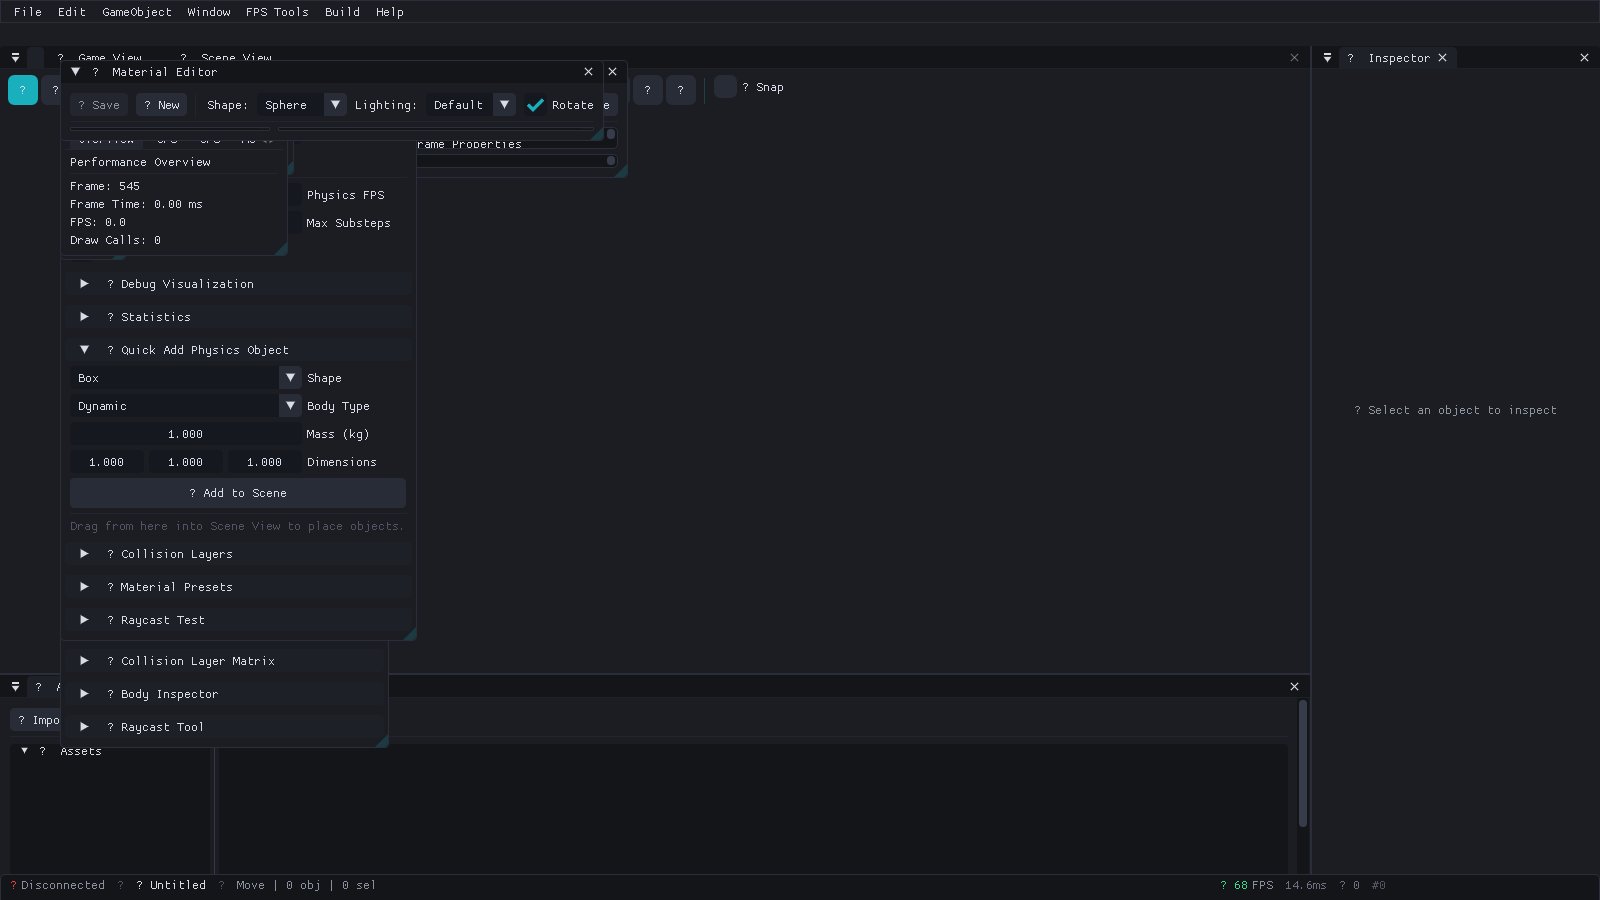
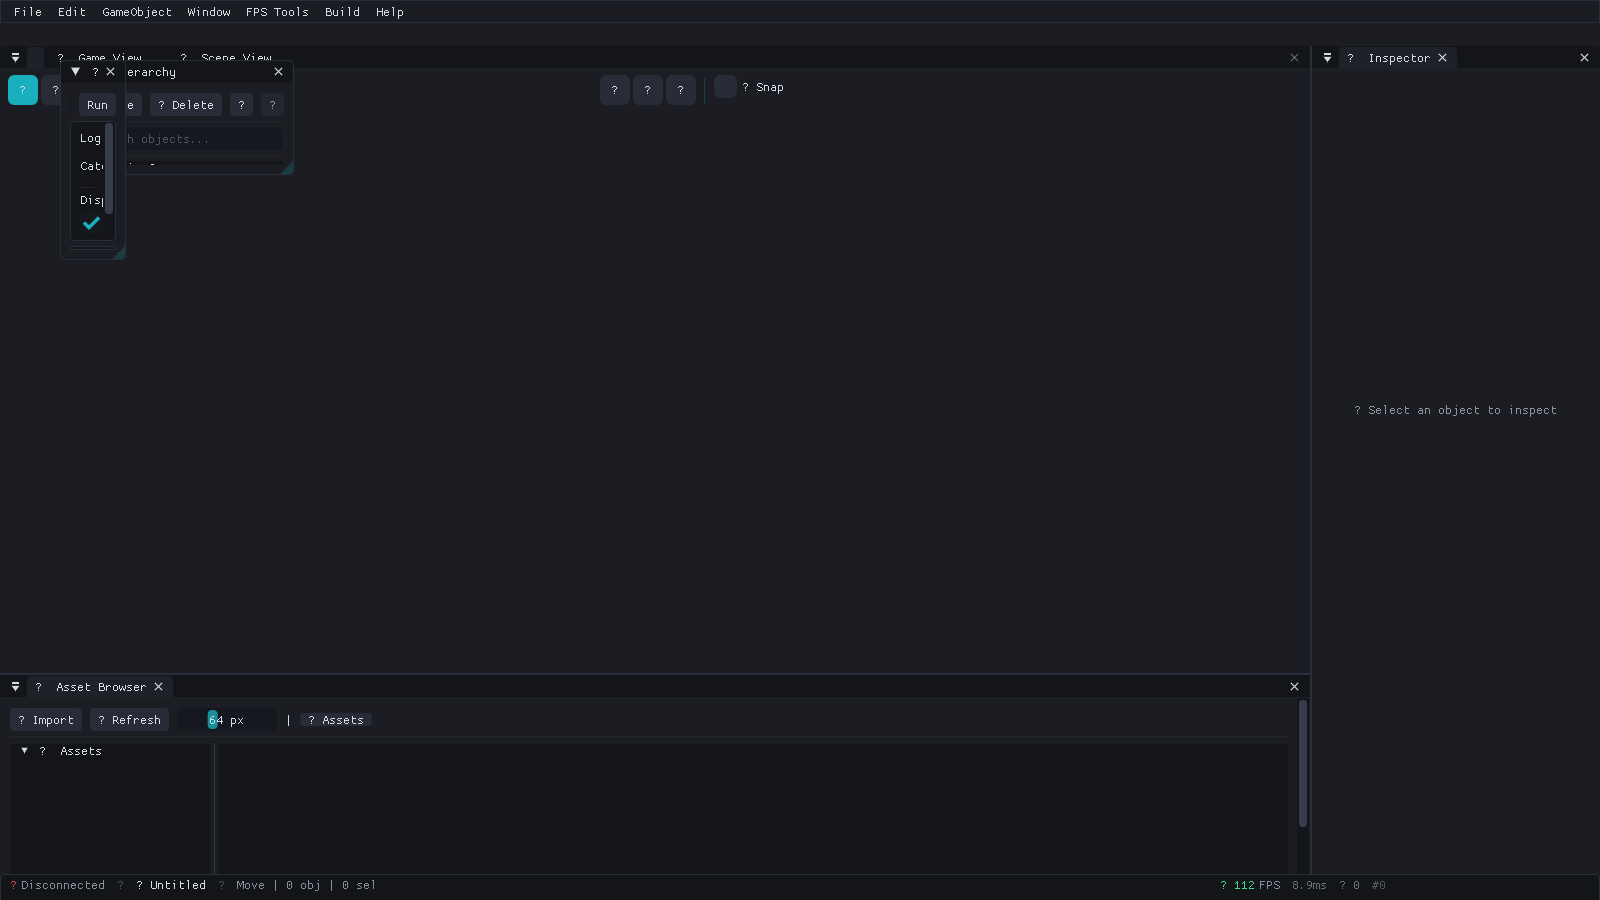
Add welcome screen, clean default layout, and 7 editor screenshots
Editor UX improvements:
- Default layout now shows only 6 essential panels (Scene View, Hierarchy,
  Inspector, Console, Asset Browser, Game View) instead of all 57+ stacked
  on top of each other
- Welcome screen modal on first launch explains core panels and offers
  "Open All Panels" or "Keep Minimal Layout" quick actions
- Welcome screen auto-skipped in --test-mode for automated testing

New screenshots captured via Xvfb + Mesa llvmpipe:
- editor-overview.png: Clean default layout (no panel overlap)
- editor-welcome.png: First-launch welcome screen
- editor-window-menu.png: Window menu showing all available panels
- editor-file-menu.png: File menu (New/Save/Import/Build/Exit)
- editor-gameobject-menu.png: GameObject creation (3D, Light, Camera, etc.)
- editor-physics-panel.png: Physics 3D panel with gravity/settings
- editor-fpstools-menu.png: FPS Tools menu

Screenshots inserted into README (with collapsible gallery), wiki/Home,
wiki/SparkEditor (7 images), and wiki/Getting-Started.

https://claude.ai/code/session_01Sz326cjw3rrzmRm45WpGr9

diff --git a/SparkEditor/Source/Core/EditorUI.cpp b/SparkEditor/Source/Core/EditorUI.cpp
@@ -551,6 +551,7 @@ namespace SparkEditor
         RenderStatusBar();
         RenderNotifications();
         RenderModalDialogs();
+        RenderWelcomeScreen();
 
         // Render project browser modal (on top of everything)
         SPARK_WARN_IF(Spark::LogCategory::Editor, m_projectBrowserPanel == nullptr,
@@ -912,6 +913,66 @@ namespace SparkEditor
 
                 ImGui::EndPopup();
             }
+        }
+    }
+
+    void EditorUI::RenderWelcomeScreen()
+    {
+        if (!m_showWelcomeScreen)
+            return;
+
+        // Skip welcome screen in test mode (automated testing)
+        if (m_config && m_config->testMode)
+        {
+            m_showWelcomeScreen = false;
+            return;
+        }
+
+        ImGui::OpenPopup("Welcome to SparkEngine");
+
+        ImVec2 center = ImGui::GetMainViewport()->GetCenter();
+        ImGui::SetNextWindowPos(center, ImGuiCond_Appearing, ImVec2(0.5f, 0.5f));
+        ImGui::SetNextWindowSize(ImVec2(560, 420), ImGuiCond_Appearing);
+
+        if (ImGui::BeginPopupModal("Welcome to SparkEngine", &m_showWelcomeScreen,
+                                   ImGuiWindowFlags_NoResize | ImGuiWindowFlags_NoMove))
+        {
+            ImGui::TextWrapped("Welcome! SparkEngine is a C++23 open-source 3D game engine.");
+            ImGui::Spacing();
+            ImGui::Separator();
+            ImGui::Spacing();
+
+            ImGui::Text("Getting Started");
+            ImGui::BulletText("Scene View — navigate the 3D viewport (WASD + mouse)");
+            ImGui::BulletText("Hierarchy — view and select entities in the scene");
+            ImGui::BulletText("Inspector — edit properties of the selected entity");
+            ImGui::BulletText("Asset Browser — browse and import project assets");
+            ImGui::BulletText("Console — view logs and run debug commands");
+
+            ImGui::Spacing();
+            ImGui::Separator();
+            ImGui::Spacing();
+
+            ImGui::Text("Quick Actions");
+            if (ImGui::Button("Open All Panels"))
+            {
+                for (auto& [name, panel] : m_panels)
+                    panel->SetVisible(true);
+                m_showWelcomeScreen = false;
+                ImGui::CloseCurrentPopup();
+            }
+            ImGui::SameLine();
+            if (ImGui::Button("Keep Minimal Layout"))
+            {
+                m_showWelcomeScreen = false;
+                ImGui::CloseCurrentPopup();
+            }
+
+            ImGui::Spacing();
+            ImGui::TextDisabled("Tip: Open more panels from the Window menu at any time.");
+            ImGui::TextDisabled("Tip: Use Window > Reset Layout to restore the default.");
+
+            ImGui::EndPopup();
         }
     }
 

diff --git a/SparkEditor/Source/Core/EditorPanelFactory.cpp b/SparkEditor/Source/Core/EditorPanelFactory.cpp
@@ -221,28 +221,24 @@ namespace SparkEditor
 
     void EditorUI::SetDefaultPanelVisibility()
     {
-        const char* hiddenPanels[] = {
-            "WeaponEditor",       "FPSTools",           "DebugVisualizer",
-            "SceneStats",         "ObjectPlacement",    "BuildCook",
-            "UndoHistory",        "PrefabEditor",       "Search",
-            "DedicatedServer",    "TerrainEditor",      "PostProcessing",
-            "DialogueEditor",     "AIEditor",           "AIDebug",
-            "SplineEditor",       "ParticleEditor",     "EventMonitor",
-            "SaveSystem",         "Localization",       "WeatherFog",
-            "CinematicSequencer", "ProjectSettings",    "AudioMixer",
-            "ScriptEditor",       "DestructionEditor",  "Replay",
-            "VRConfig",           "Streaming",          "Modding",
-            "CoroutineDebug",     "GameModuleSelector", "Collaboration",
-            "TimeOfDay",          "AbilityEditor",      "TriggerEditor",
-            "ConditionEditor",    "DecalEditor",        "EventResponses",
-            "VisualScript",       "Workflows",          "Prototyping",
-            "UIDesigner",         "ScriptDebugger",
+        // On first launch, only show the essential panels that form a clean,
+        // non-overlapping workspace. All other panels can be enabled from the
+        // Window menu. This prevents the overwhelming "everything stacked on
+        // everything" experience for new users.
+        const char* visibleByDefault[] = {
+            "SceneView", "Hierarchy", "Inspector", "Console", "AssetBrowser", "GameView",
         };
 
-        for (const char* name : hiddenPanels)
+        // Start with everything hidden, then enable the defaults
+        for (auto& [name, panel] : m_panels)
+        {
+            panel->SetVisible(false);
+        }
+
+        for (const char* name : visibleByDefault)
         {
             if (m_panels.count(name))
-                m_panels[name]->SetVisible(false);
+                m_panels[name]->SetVisible(true);
         }
     }
 

diff --git a/SparkEditor/Source/Core/EditorUI.h b/SparkEditor/Source/Core/EditorUI.h
@@ -178,6 +178,7 @@ namespace SparkEditor
         std::string m_currentTheme = "Spark Professional";
         bool m_showDemoWindow = false;
         bool m_firstFrame = true;
+        bool m_showWelcomeScreen = true;
         uint64_t m_frameNumber = 0;
 
         // Statistics tracking
@@ -298,6 +299,7 @@ namespace SparkEditor
         void RenderNotifications();
         void RenderPanels();
         void RenderModalDialogs();
+        void RenderWelcomeScreen();
         void SetupDefaultDockLayout(ImGuiID dockspaceId);
         void UpdateStats(float deltaTime);
         void CreatePanels();

diff --git a/wiki/SparkEditor.md b/wiki/SparkEditor.md
@@ -2,9 +2,37 @@
 
 The SparkEditor is an ImGui-based visual editor for creating and editing game content. It provides a dockable workspace with multiple panels for [scene editing](Scene-Management), material authoring, [animation](Animation), and debugging.
 
-![SparkEditor running on Linux with software rendering](../docs/screenshots/editor-overview.png)
+![SparkEditor default layout](../docs/screenshots/editor-overview.png)
 
-*SparkEditor with the Spark Professional theme — showing Material Editor, Physics tools, Performance overlay, Scene View, Inspector, and Asset Browser panels.*
+*SparkEditor default layout — Hierarchy, Scene View, Inspector, Asset Browser, and Console panels with the Spark Professional dark theme.*
+
+### Welcome Screen
+
+On first launch, a welcome screen introduces the core panels and offers quick actions:
+
+![Welcome screen](../docs/screenshots/editor-welcome.png)
+
+### Window Menu — All Available Panels
+
+Additional panels can be enabled from the **Window** menu at any time:
+
+![Window menu showing all panels](../docs/screenshots/editor-window-menu.png)
+
+### File Menu
+
+![File menu](../docs/screenshots/editor-file-menu.png)
+
+### GameObject Menu
+
+Create entities with pre-configured components:
+
+![GameObject creation menu](../docs/screenshots/editor-gameobject-menu.png)
+
+### Physics Panel
+
+The Physics 3D panel provides world settings, gravity presets, and debug tools:
+
+![Physics 3D panel](../docs/screenshots/editor-physics-panel.png)
 
 **Source:** `SparkEditor/Source/`
 

diff --git a/README.md b/README.md
@@ -59,7 +59,28 @@
 
 ![SparkEditor — ImGui-based visual editor with 57+ dockable panels](docs/screenshots/editor-overview.png)
 
-*SparkEditor running on Linux with software rendering (Mesa llvmpipe). Shows Material Editor, Physics tools, Scene View, Inspector, and Asset Browser panels with the Spark Professional dark theme.*
+*SparkEditor default layout — Hierarchy, Scene View, Inspector, Console, and Asset Browser. Additional panels available from the Window menu. Spark Professional dark theme.*
+
+<details>
+<summary>More screenshots</summary>
+
+**Welcome Screen** (first launch)
+
+![Welcome screen](docs/screenshots/editor-welcome.png)
+
+**Window Menu** (57+ panels available)
+
+![Window menu](docs/screenshots/editor-window-menu.png)
+
+**GameObject Creation**
+
+![GameObject menu](docs/screenshots/editor-gameobject-menu.png)
+
+**Physics Panel**
+
+![Physics 3D](docs/screenshots/editor-physics-panel.png)
+
+</details>
 
 ## Downloads
 

diff --git a/wiki/Home.md b/wiki/Home.md
@@ -6,7 +6,7 @@
 
 ![SparkEditor — ImGui-based visual editor](../docs/screenshots/editor-overview.png)
 
-*SparkEditor running on Linux (Mesa llvmpipe software rendering) with the Spark Professional theme.*
+*SparkEditor default layout with the Spark Professional theme. Open more panels from the Window menu.*
 
 ## Platform Support
 
